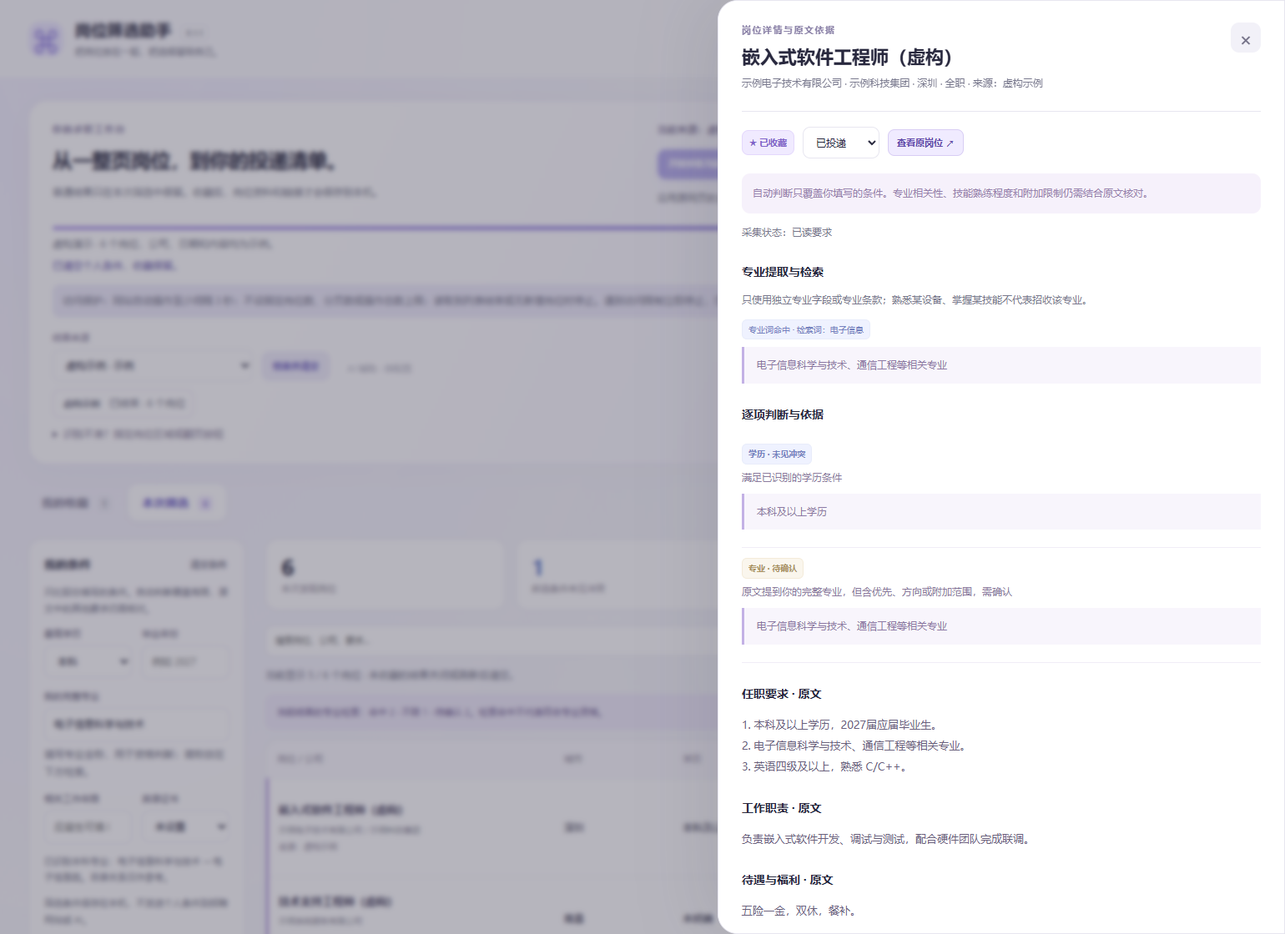
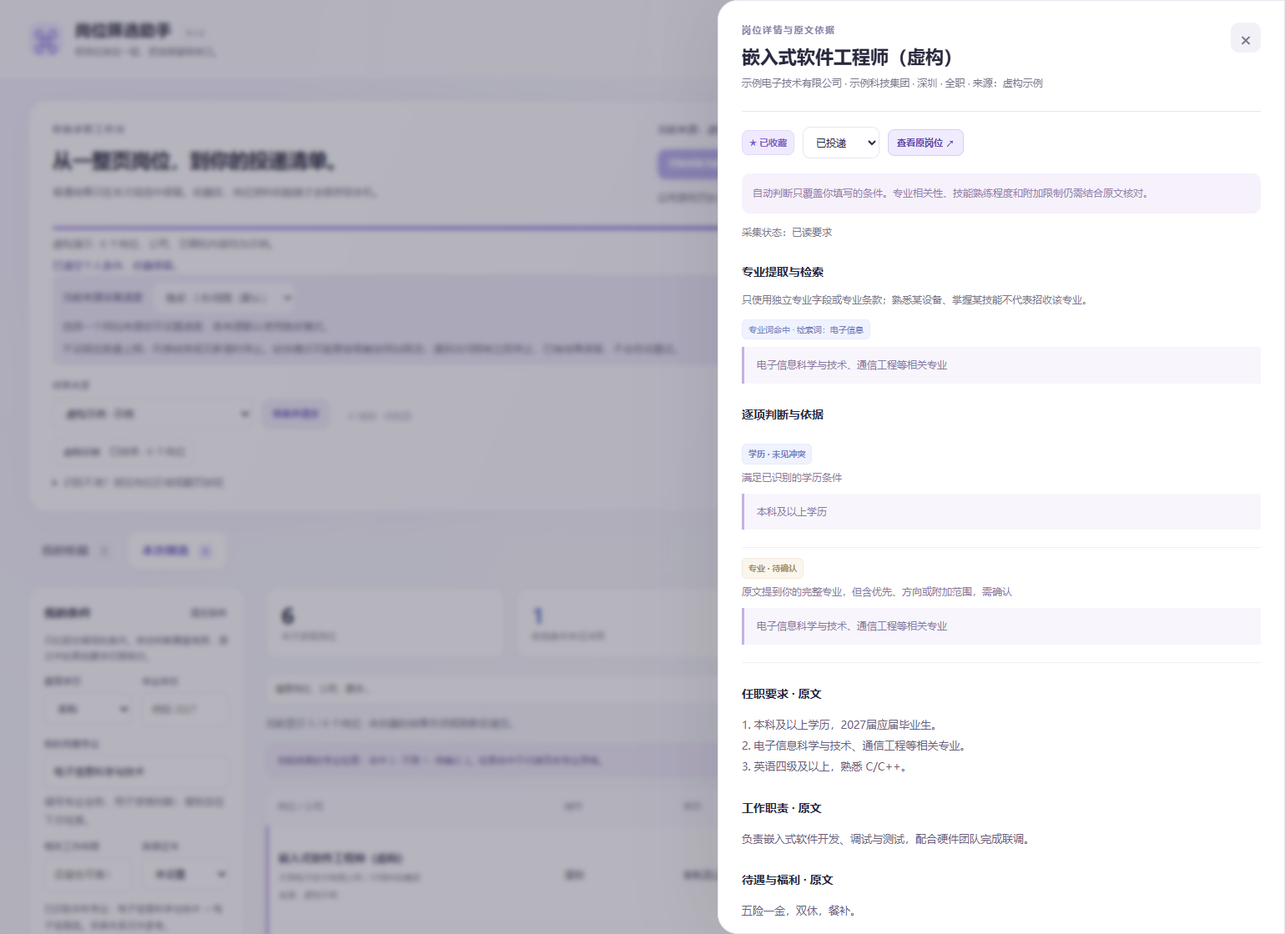
Release v0.1.2: optional faster pacing and efficient widget updates

diff --git a/extension/jobs-widget.js b/extension/jobs-widget.js
@@ -1,7 +1,8 @@
 (function (root) {
   'use strict';
   if (root.JobScreenWidget) return;
-  let binding, current = {}, host, panel, list, message, count, search, degree, hideDegree, start, pause, resume, clear, authorize;
+  let binding, current = {}, host, panel, list, message, count, search, degree, hideDegree, speed, start, pause, resume, clear, authorize;
+  let renderedRows = new Map(), listSignature = '';
   const el = (tag, text, cls) => { const n = document.createElement(tag); if (text !== undefined) n.textContent = text; if (cls) n.className = cls; return n; };
   async function send(action, extra = {}) {
     try {
@@ -13,6 +14,7 @@
   }
   function button(label, action, fn) { const b = el('button', label); b.dataset.action = action; b.type = 'button'; b.onclick = fn || (() => send(action)); return b; }
   function build() {
+    renderedRows = new Map(); listSignature = '';
     host = el('div'); host.id = 'job-screen-widget'; host.style.cssText = 'position:fixed;right:20px;bottom:20px;z-index:2147483646;width:min(370px,calc(100vw - 28px));display:block;';
     const shadow = host.attachShadow({ mode: 'closed' }), style = el('style');
     style.textContent = ':host{all:initial}*{box-sizing:border-box}section{font:13px/1.7 system-ui,"Microsoft YaHei",sans-serif;color:#39334f;background:linear-gradient(145deg,#fff,#f7f4ff);border:1px solid #e3dcf3;border-radius:20px;box-shadow:0 15px 65px #30205226;max-height:calc(100vh - 40px);overflow:auto;padding:18px}header{display:flex;gap:10px;align-items:center}h2{font-size:15px;margin:0;flex:1}small{color:#807393}p{margin:8px 0}button{border:1px solid #e4dcf4;background:#f3effc;border-radius:9px;padding:7px 10px;color:#7053b6;font:inherit;cursor:pointer}button:hover{background:#eae1fc}button:disabled{opacity:.5;cursor:default}.close{border:0;font-size:22px;padding:0 8px;background:transparent}.actions{display:flex;gap:6px;flex-wrap:wrap;margin:12px 0}.primary{background:#7460c7;color:white;border-color:#7460c7}label{display:block;font-size:12px;color:#776a8c}input,select{width:100%;border:1px solid #ded6ed;background:white;border-radius:9px;padding:9px;font:inherit;color:#39334f;margin:4px 0}ol{list-style:none;margin:0;padding:0}li{background:#ffffffbd;border:1px solid #ebe5f5;border-radius:12px;margin:8px 0;padding:10px}.job-name{font-weight:650;text-align:left;background:none;border:0;padding:0;color:#40345b}.job-meta{font-size:11px;color:#8d7c9c}.major{font-size:12px;font-weight:650;color:#6545b4}.row-actions{display:flex;gap:12px;align-items:center;font-size:11px;margin-top:7px}.row-actions button{font-size:11px;padding:3px 8px}a{color:#796298;text-decoration:none}.status{font-size:12px;color:#8c759c;overflow-wrap:anywhere}.count{font-size:12px;color:#76638e;background:#eee8fa;border-radius:9px;padding:8px}.note{font-size:11px;color:#9c8daa}.danger{color:#a36683;background:#fbf1f6}.empty{font-size:12px;color:#9b8ca9;padding:15px 0}.degree-filter{display:flex;align-items:center;gap:6px;margin:7px 0}.degree-filter input{width:auto;margin:0}.conflict-reason{font-size:11px;color:#ad5c74;margin-top:5px}select{margin:4px 0}.original-job-button{display:inline-flex;align-items:center;justify-content:center;border:1px solid #d8cdf4;border-radius:8px;padding:3px 9px;background:#f0ebff;color:#6047aa;font-size:11px;font-weight:650}.original-job-button:hover{background:#e6ddfc}.major.missing{color:#a07124;background:#fff4dc;border:1px solid #f2dfb7;border-radius:7px;padding:4px 7px;margin:6px 0;display:inline-block}[hidden]{display:none!important}';
@@ -26,6 +28,8 @@
     for (const value of ['', '专科', '本科', '硕士', '博士']) { const option = el('option', value || '未设置'); option.value = value; degree.append(option); } education.append(degree);
     const hideLabel = el('label', undefined, 'degree-filter'); hideDegree = el('input'); hideDegree.type = 'checkbox'; hideDegree.setAttribute('aria-label', '隐藏学历明确不符'); hideLabel.append(hideDegree, document.createTextNode('隐藏学历明确不符（未知仍保留）'));
     degree.onchange = hideDegree.onchange = () => send('degree', { degree: degree.value, hideDegreeConflicts: hideDegree.checked }); panel.append(education, hideLabel);
+    const pace = el('label', '采集速度'); speed = el('select'); speed.setAttribute('aria-label', '采集速度');
+    for (const [value, text] of [['steady', '稳妥 · 3 秒间隔（默认）'], ['fast', '较快 · 2 秒间隔']]) { const option = el('option', text); option.value = value; speed.append(option); } pace.append(speed); speed.onchange = () => send('speed', { speed: speed.value }); panel.append(pace, el('p', '采集中先暂停再改速度；同站按较慢设置共用间隔。较快模式可能更易限流，遇到限制仍立即停止。', 'note'));
     const actions = el('div', undefined, 'actions'); start = button('开始检索', 'start'); start.className = 'primary'; pause = button('暂停', 'pause'); resume = button('继续', 'resume');
     clear = button('结束并清空', 'clear'); clear.className = 'danger'; const full = button('打开总筛选台 ↗', 'focus'); authorize = button('授权详情站点 ↗', 'focus'); authorize.hidden = true; actions.append(start, pause, resume, authorize, full, clear); panel.append(actions);
     count = el('p', '尚未开始', 'count'); message = el('p', '当前网站独立检索，专业与其他条件可在总台设置。', 'status'); message.setAttribute('role', 'status'); list = el('ol');
@@ -36,10 +40,14 @@
     if (!panel) return; current = state || {};
     count.textContent = '已发现 ' + (current.total || 0) + ' · 筛选后 ' + (current.count || 0) + ' · 已读详情 ' + (current.read || 0);
     message.textContent = current.message || '尚未开始'; start.disabled = Boolean(current.busy || current.clearing); pause.hidden = !current.busy; resume.hidden = current.busy || !current.resumable; clear.disabled = !current.total && !current.busy;
-    authorize.hidden = !current.needsPermission; degree.value = current.degree || ''; hideDegree.checked = Boolean(current.hideDegreeConflicts);
+    authorize.hidden = !current.needsPermission; degree.value = current.degree || ''; hideDegree.checked = Boolean(current.hideDegreeConflicts); speed.value = current.speed === 'fast' ? 'fast' : 'steady'; speed.disabled = Boolean(current.busy || current.clearing);
     if (document.activeElement !== host && search.value !== (current.query || '')) search.value = current.query || '';
-    list.replaceChildren();
+    const signature = JSON.stringify([current.total || 0, current.count || 0, current.jobs || []]);
+    if (signature === listSignature) return;
+    listSignature = signature; const nextRows = new Map(), children = [];
     for (const job of (current.jobs || [])) {
+      const key = job.key, signature = JSON.stringify(job), old = renderedRows.get(key);
+      if (old?.signature === signature) { nextRows.set(key, old); children.push(old.row); continue; }
       const row = el('li'), title = button(job.name, 'detail', () => send('detail', { key: job.key })); title.className = 'job-name';
       row.append(title, el('div', [job.city, job.company].filter(Boolean).join(' · '), 'job-meta'), el('div', job.majorLabel || '未检测到专业要求', 'major' + (job.majorMissing ? ' missing' : '')));
       row.append(el('div', '学历要求：' + (job.degreeLabel || '未明确') + (job.judgement ? ' · ' + job.judgement : ''), 'job-meta'));
@@ -47,10 +55,11 @@
       if (job.majorPrimary) row.append(el('div', job.majorPrimary, 'job-meta'));
       const actions = el('div', undefined, 'row-actions'); actions.append(button(job.favorite ? '★ 已收藏' : '☆ 收藏', 'favorite', () => send('favorite', { key: job.key })));
       try { const url = new URL(job.url); if (/^https?:$/.test(url.protocol) && !url.username && !url.password) { const link = el('a', job.linkKind === 'detail' ? '查看原岗位 ↗' : '查看来源列表 ↗', 'original-job-button'); link.setAttribute('aria-label', (job.linkKind === 'detail' ? '查看原岗位 ' : '查看来源列表 ') + job.name); link.href = url.href; link.target = '_blank'; link.rel = 'noopener noreferrer'; actions.append(link); } } catch {}
-      row.append(actions); list.append(row);
+      row.append(actions); nextRows.set(key, { signature, row }); children.push(row);
     }
-    if (!current.jobs?.length) list.append(el('li', current.total ? '暂无符合当前组合的结果，可在总台调整条件。' : '点击开始检索，沿用原网站当前的筛选范围。', 'empty'));
-    else list.append(el('li', '已显示当前筛选的全部 ' + current.count + ' 条结果，可在小窗内滚动查看。', 'note'));
+    if (!current.jobs?.length) children.push(el('li', current.total ? '暂无符合当前组合的结果，可在总台调整条件。' : '点击开始检索，沿用原网站当前的筛选范围。', 'empty'));
+    else children.push(el('li', '已显示当前筛选的全部 ' + current.count + ' 条结果，可在小窗内滚动查看。', 'note'));
+    list.replaceChildren(...children); renderedRows = nextRows;
   }
   function show(data) { binding = data; if (!host?.isConnected) build(); host.style.display = 'block'; panel.querySelector('#source').textContent = new URL(data.url).hostname + ' · 仅控制当前网站'; render(current); }
   function hide() { if (host) host.style.display = 'none'; }

diff --git a/extension/help.html b/extension/help.html
@@ -1,5 +1,5 @@
-<!doctype html><html lang="zh-CN"><head><meta charset="utf-8"><meta name="viewport" content="width=device-width,initial-scale=1"><title>岗位筛选助手使用教程</title><style>html{scroll-behavior:smooth}body{margin:0;background:#f7f7fb;color:#333049;font:16px/1.85 system-ui,"Microsoft YaHei",sans-serif}main{max-width:1000px;margin:0 auto;padding:36px 40px 80px;background:white}nav{background:#f3efff;border:1px solid #e0d8f0;border-radius:12px;padding:18px 24px}nav ul{columns:2;margin:0;padding-left:24px}h1{font-size:30px}h2{font-size:23px;margin-top:42px;border-bottom:2px solid #e5dcf3;padding-bottom:8px;scroll-margin-top:20px}h3{font-size:18px;margin-top:28px}a{color:#6554d9}li{margin:8px 0}img{max-width:100%;border:1px solid #e5dff0;border-radius:9px;margin:14px 0}code{background:#f2eef9;padding:2px 5px;border-radius:4px;overflow-wrap:anywhere}pre{background:#f7f3fc;padding:16px;overflow:auto;line-height:1.6}.table{overflow:auto}table{border-collapse:collapse;width:100%;font-size:14px}th,td{padding:10px;border:1px solid #e8e1f0;text-align:left;vertical-align:top}th{background:#f5f1fc}.hint{font-size:13px;color:#7f718c}@media(max-width:650px){main{padding:18px 16px 50px}nav ul{columns:1}h1{font-size:25px}}</style></head><body><main><p class="hint">插件内置离线教程 · 点击图片可放大 · v0.1.1</p><nav aria-label="教程目录"><strong>按使用步骤阅读</strong><ul><li><a href="#1-安装与更新">1. 安装与更新</a></li><li><a href="#2-从当前招聘列表开始">2. 从当前招聘列表开始</a></li><li><a href="#3-收藏就是你的投递清单">3. 收藏就是你的投递清单</a></li><li><a href="#4-表格卡片与关闭操作">4. 表格、卡片与关闭操作</a></li><li><a href="#5-设置条件与理解判断">5. 设置条件与理解判断</a></li><li><a href="#6-采集状态与识别纠正">6. 采集状态与识别纠正</a></li><li><a href="#7-导出与恢复">7. 导出与恢复</a></li><li><a href="#8-本地存储与访问权限">8. 本地存储与访问权限</a></li></ul></nav><h1 id="岗位筛选助手使用说明">岗位筛选助手使用说明</h1>
-<p>独立版 0.1.1。各网站分别启动，总台可切换或合并；表格为默认展示方式，可切换卡片，只自动保存收藏。</p>
+<!doctype html><html lang="zh-CN"><head><meta charset="utf-8"><meta name="viewport" content="width=device-width,initial-scale=1"><title>岗位筛选助手使用教程</title><style>html{scroll-behavior:smooth}body{margin:0;background:#f7f7fb;color:#333049;font:16px/1.85 system-ui,"Microsoft YaHei",sans-serif}main{max-width:1000px;margin:0 auto;padding:36px 40px 80px;background:white}nav{background:#f3efff;border:1px solid #e0d8f0;border-radius:12px;padding:18px 24px}nav ul{columns:2;margin:0;padding-left:24px}h1{font-size:30px}h2{font-size:23px;margin-top:42px;border-bottom:2px solid #e5dcf3;padding-bottom:8px;scroll-margin-top:20px}h3{font-size:18px;margin-top:28px}a{color:#6554d9}li{margin:8px 0}img{max-width:100%;border:1px solid #e5dff0;border-radius:9px;margin:14px 0}code{background:#f2eef9;padding:2px 5px;border-radius:4px;overflow-wrap:anywhere}pre{background:#f7f3fc;padding:16px;overflow:auto;line-height:1.6}.table{overflow:auto}table{border-collapse:collapse;width:100%;font-size:14px}th,td{padding:10px;border:1px solid #e8e1f0;text-align:left;vertical-align:top}th{background:#f5f1fc}.hint{font-size:13px;color:#7f718c}@media(max-width:650px){main{padding:18px 16px 50px}nav ul{columns:1}h1{font-size:25px}}</style></head><body><main><p class="hint">插件内置离线教程 · 点击图片可放大 · v0.1.2</p><nav aria-label="教程目录"><strong>按使用步骤阅读</strong><ul><li><a href="#1-安装与更新">1. 安装与更新</a></li><li><a href="#2-从当前招聘列表开始">2. 从当前招聘列表开始</a></li><li><a href="#3-收藏就是你的投递清单">3. 收藏就是你的投递清单</a></li><li><a href="#4-表格卡片与关闭操作">4. 表格、卡片与关闭操作</a></li><li><a href="#5-设置条件与理解判断">5. 设置条件与理解判断</a></li><li><a href="#6-采集状态与识别纠正">6. 采集状态与识别纠正</a></li><li><a href="#7-导出与恢复">7. 导出与恢复</a></li><li><a href="#8-本地存储与访问权限">8. 本地存储与访问权限</a></li></ul></nav><h1 id="岗位筛选助手使用说明">岗位筛选助手使用说明</h1>
+<p>独立版 0.1.2。各网站分别启动，总台可切换或合并；表格为默认展示方式，可切换卡片，只自动保存收藏。</p>
 <h2 id="1-安装与更新">1. 安装与更新</h2>
 <ol>
 <li>解压安装包到独立的固定文件夹，不覆盖其他插件。</li>
@@ -20,10 +20,11 @@
 <p>若列表和详情位于不同网站，插件保留详情原链接，缺少权限时显示“详情待授权”，不会把它当成没有专业要求。点击小窗“授权详情站点 ↗”进入总台，再点击“授权详情站点并继续”，浏览器允许后从本轮进度接着读取。拒绝授权则保留已有结果，仍可人工打开原页；不会自动申请所有网站权限。</p>
 <p>插件从当前页读取后续分页。如果从中间页开始，会明确提示未覆盖前面的分页。它不会自行扩大到别的招聘类别、网站或子公司入口。</p>
 <p>同时打开多个招聘网站时，在各网站点击插件图标、分别开始。没有启动的网站不会自动采集。总台“结果来源”可以只看一个网站，也可以“合并所有本轮来源”。个人条件和筛选条件在本轮各来源之间共用。</p>
-<p>小窗显示当前来源全部筛选结果，可以在小窗内滚动查看、收藏、点击“查看原岗位”和跳转总台详情，不再限制前5条。同站翻页后，已打开的小窗会恢复；已经收起的小窗保持收起。没有固定采集总数上限；已采集且符合筛选条件的岗位都会显示。</p>
+<p>小窗复用没有变化的岗位行，减少大列表刷新时的重复创建，状态更新仍同步；显示当前来源全部筛选结果，可以在小窗内滚动查看、收藏、点击“查看原岗位”和跳转总台详情，不再限制前5条。同站翻页后，已打开的小窗会恢复；已经收起的小窗保持收起。没有固定采集总数上限；已采集且符合筛选条件的岗位都会显示。</p>
 <p>“暂停”保留本轮内存进度，“继续”接着读取并沿用本轮进度和访问间隔。请保持总筛选台标签页打开，切到其他标签页不影响任务；刷新或关闭总台会停止全部本轮任务，并清空普通结果和暂停进度。</p>
 <p>切到别的标签页浏览其他网站，原任务继续；如果把正在采集的原标签页本身导航到另一网站，在下一次来源检查时停止该任务并保留已有结果，已发出的单次读取可能先完成。此时不会自动扫描新网站，需在新网站重新打开插件并主动开始。原招聘页与总台都需保持打开；浏览器退出或崩溃不能继续。</p>
-<p>自动访问采用保守节奏：同一实际访问站点的翻页、滚动、详情点击或读取之间至少间隔3秒；同站多个标签页及多个来源共用的详情站点共用限速。不再设置固定岗位数、分页数和访问操作总数上限。读取到列表结束、页面重复或没有新增岗位后停止翻页，继续补读已发现岗位详情。大列表分批显示进度，暂停和继续保留已发现岗位；你可以随时结束并清空。取消总量上限不改变访问间隔；岗位多时需要更长时间，浏览器退出或总台关闭后不会继续。</p>
+<p>小窗与总台可以为当前来源选择采集速度：默认“稳妥 · 3 秒间隔”，可选“较快 · 2 秒间隔”。采集中先暂停，修改后点击继续，可保留本轮进度；合并查看时需先选择具体来源才能改速度。速度仅在当前会话保留，新来源默认稳妥。较快模式可能更容易触发网站限流，整体提速取决于网络和页面加载，详情完整性检查和等待超时保持不变。</p>
+<p>同一实际访问站点的翻页、滚动、详情点击或读取共用间隔；同站多个标签页及多个来源共用的详情站点采用其中较慢的设置。开始等待后出现较慢任务，会延长排队间隔；切到较快模式不会缩短上一动作应保留的间隔。不再设置固定岗位数、分页数和访问操作总数上限。读取到列表结束、页面重复或没有新增岗位后停止翻页，继续补读已发现岗位详情。大列表分批显示进度，暂停和继续保留已发现岗位；你可以随时结束并清空。取消总量上限不影响所选访问间隔；岗位多时需要更长时间，浏览器退出或总台关闭后不会继续。</p>
 <h2 id="3-收藏就是你的投递清单">3. 收藏就是你的投递清单</h2>
 <p>点击岗位旁的“☆ 收藏”，保存该岗位的原文、职责、来源链接和采集时间。在右侧详情或卡片中可记录“准备投递”“已投递”“不考虑”等状态。投递状态由你手动填写，插件不会替你提交申请。</p>
 <p>下次打开默认显示“我的收藏”；其他未收藏岗位不自动保存，也不会重新出现。只有你再次回到招聘网站并开始采集，才会产生新的普通结果。</p>

diff --git a/extension/jobs.js b/extension/jobs.js
@@ -204,6 +204,9 @@
     $('end-task').disabled = selectedTask === 'all' ? ![...tasks.items.values()].some(t => t.busy || t.dataset) : !task?.busy && !task?.dataset;
   }
   function renderTasks() {
+    const task = activeTask(), speed = JobScreenAccess.speed(task?.speed);
+    $('collect-speed').value = speed; $('collect-speed').disabled = !task?.tabId || Boolean(task.busy || task.starting || task.clearing);
+    $('speed-note').textContent = !task?.tabId ? '选择一个网站来源后可设置速度，各来源默认使用稳妥模式。' : (speed === 'fast' ? '较快模式：同站自动操作至少间隔 2 秒。' : '稳妥模式：同站自动操作至少间隔 3 秒。') + ' 采集中需暂停后修改；同站多个任务按较慢设置共用间隔。详情完整性检查保持不变。';
     const select = $('task-source'), signature = [...tasks.items.values()].map(t => t.id).join('|');
     if (select.dataset.signature !== signature) {
       select.dataset.signature = signature; const all = node('option', '', '合并所有本轮来源'); all.value = 'all';
@@ -215,6 +218,11 @@
       const row = node('div', 'task-item'), pick = node('button', 'subtle', t.label); pick.onclick = () => selectSource(t.id);
       row.append(pick, node('span', 'hint', (t.busy ? '采集中' : ['blocked','limited'].includes(t.dataset?.stage) ? '保护已停止' : t.dataset?.stage === 'stopped' ? '已停止' : t.dataset?.stage === 'permission' ? '详情待授权' : t.dataset?.stage === 'done' ? '已结束' : t.dataset ? '已暂停' : '尚未开始') + ' · ' + (t.dataset?.jobs.length || 0) + ' 个岗位')); return row;
     }));
+  }
+  function setSpeed(task, value) {
+    if (!task?.tabId) throw Error('请先选择一个网站来源。');
+    if (task.busy || task.starting || task.clearing) throw Error('请先暂停采集，再修改速度。');
+    task.speed = JobScreenAccess.speed(value); render();
   }
   function selectSource(id) { selectedTask = id; mode = 'session'; page = 1; render(); status(activeTask()?.message || '正在合并查看本轮来源；结束并清空将作用于全部本轮任务。'); }
   async function bindSource(binding) {
@@ -236,7 +244,7 @@
   }
   function widgetSnapshot(task) {
     const jobs = tasks.jobs(task), values = J.filter(jobs, profile, filters, marks(jobs)), d = task.dataset;
-    return { busy: Boolean(task.busy || task.starting), clearing: Boolean(task.clearing), resumable: Boolean(d && !['done','blocked','limited','permission','stopped'].includes(d.stage)), needsPermission: d?.stage === 'permission', degree: profile.degree || '', hideDegreeConflicts: Boolean(filters.hideDegreeConflicts), total: jobs.length, count: values.length,
+    return { busy: Boolean(task.busy || task.starting), speed: JobScreenAccess.speed(task.speed), clearing: Boolean(task.clearing), resumable: Boolean(d && !['done','blocked','limited','permission','stopped'].includes(d.stage)), needsPermission: d?.stage === 'permission', degree: profile.degree || '', hideDegreeConflicts: Boolean(filters.hideDegreeConflicts), total: jobs.length, count: values.length,
       read: jobs.filter(j => j.collectionState === 'read').length, message: task.message, query: filters.major || '',
       jobs: values.map(({ job, match }) => { const major = professionalData(job); return { key: job.key, name: job.name, company: job.company, city: job.city, url: job.url, linkKind: job.linkKind, degreeLabel: job.facts.degree.label, judgement: judgementLabel(match), conflictReason: match.conflictReason, majorLabel: major.label, majorMissing: major.missing, majorPrimary: major.primary, favorite: Boolean(favorites[keyFor(job)]) }; }) };
   }
@@ -267,7 +275,7 @@
       if (task.startToken !== token) return;
       if (!resume) { task.source = context; task.ruleKey = origin + new URL(context.url).pathname; task.rule = (await Store.get('jobRules', {}))[task.ruleKey] || {}; }
       if (task.startToken !== token) return;
-      const access = await rpc('access-begin', { resume }, task); task.ticket = access.ticket;
+      const access = await rpc('access-begin', { resume, speed: task.speed }, task); task.ticket = access.ticket;
       if (task.startToken !== token) { await rpc('close-worker', {}, task).catch(() => {}); return; }
       await tasks.run(task, { read: () => rpc('scan', { rule: task.rule, expand: true }, task), next: () => rpc('advance', { rule: task.rule }, task),
         resolveLink: selector => rpc('resolve', { selector }, task), readDetail: (url, signal) => readDetail(url, signal, task),
@@ -292,6 +300,7 @@
     if (action === 'bind' || action === 'snapshot') return widgetSnapshot(task);
     if (action === 'search') { filters.major = binding.query; restore(); controls(); page = 1; render(); }
     if (action === 'degree') { profile.degree = binding.degree; filters.hideDegreeConflicts = binding.hideDegreeConflicts; restore(); controls(); page = 1; render(); const value = {...profile}; profileSave = profileSave.then(() => Store.set('jobProfile', value)).catch(e => status('个人条件保存失败：' + e.message)); }
+    if (action === 'speed') setSpeed(task, binding.speed);
     if (['focus', 'detail', 'start', 'resume'].includes(action)) selectSource(task.id);
     if (action === 'start' || action === 'resume') startTask(task, action === 'resume');
     if (action === 'pause') { tasks.pause(task); rpc('close-worker', {}, task).catch(() => {}); }
@@ -327,6 +336,7 @@
   };
   $('pause').onclick = () => { const t = activeTask(); tasks.pause(t); if (t?.tabId) rpc('close-worker', {}, t).catch(() => {}); };
   $('task-source').onchange = () => selectSource($('task-source').value);
+  $('collect-speed').onchange = () => setSpeed(activeTask(), $('collect-speed').value);
   $('end-task').onclick = async () => {
     const selected = selectedTask === 'all' ? [...tasks.items.values()] : [activeTask()].filter(Boolean);
     await Promise.all(selected.map(clearTask)); status(selectedTask === 'all' ? '全部本轮任务已结束，未收藏结果已清空。' : '当前任务已结束，未收藏结果已清空。');

diff --git a/extension/jobs.html b/extension/jobs.html
@@ -1,13 +1,13 @@
 <!doctype html>
 <html lang="zh-CN"><head><meta charset="utf-8"><meta name="viewport" content="width=device-width,initial-scale=1"><title>岗位筛选助手</title><link rel="stylesheet" href="styles.css"><link rel="stylesheet" href="jobs.css"></head>
 <body class="jobs-app">
-<header><div class="brand-icon" aria-hidden="true">⌘</div><div><h1>岗位筛选助手 <span class="badge">0.1.1</span></h1><p>把岗位放在一起，把选择留给自己。</p></div><a href="help.html" target="_blank" rel="noopener">使用指南 ↗</a><button id="app-close" class="icon-button" aria-label="关闭筛选台" title="关闭筛选台">×</button></header>
+<header><div class="brand-icon" aria-hidden="true">⌘</div><div><h1>岗位筛选助手 <span class="badge">0.1.2</span></h1><p>把岗位放在一起，把选择留给自己。</p></div><a href="help.html" target="_blank" rel="noopener">使用指南 ↗</a><button id="app-close" class="icon-button" aria-label="关闭筛选台" title="关闭筛选台">×</button></header>
 <main>
 <section class="collection-box" aria-label="岗位采集">
 <div class="hero-copy"><span class="eyebrow">你的求职工作台</span><h2>从一整页岗位，到你的投递清单。</h2><p>普通结果只在本次筛选中保留。收藏后，岗位资料和链接才会保存到本机。</p></div>
 <div class="collection-controls"><p id="source-label" class="source-label">先打开招聘列表，再点击浏览器工具栏的插件图标。</p><div class="toolbar"><button id="collect" class="primary">开始采集当前列表</button><button id="resume" class="secondary" hidden>继续本次采集</button><button id="pause" class="secondary" hidden>暂停</button><button id="sample" class="subtle">体验虚构示例</button></div><p class="hint">沿用原网页的公司、城市等条件，从当前页读取后续分页。采集时原页会自动翻页，请在这里操作。</p></div>
 <progress id="progress" value="0" max="1" aria-label="岗位收集进度"></progress><p id="coverage">下次打开只显示收藏；未收藏的岗位不自动保存。</p><p id="status" role="status" aria-live="polite"></p>
-<p class="access-note hint">访问保护：同站自动操作至少间隔 3 秒；不设固定岗位数、分页数或操作总数上限；读取到列表结束或无新增岗位时停止。遇到访问限制立即停止，已有结果保留；不会自动重试。</p>
+<div class="access-note"><label class="speed-control">当前来源采集速度<select id="collect-speed" aria-describedby="speed-note"><option value="steady">稳妥 · 3 秒间隔（默认）</option><option value="fast">较快 · 2 秒间隔</option></select></label><p id="speed-note" class="hint">先选择一个来源设置速度；采集中需暂停后修改。同站多个任务按较慢设置共用间隔。</p><p class="hint">不设固定数量上限；列表结束或无新增时停止。较快模式可能更容易触发网站限流；遇到访问限制立即停止，已有结果保留，不会自动重试。</p></div>
 <div id="detail-permission" class="access-note" hidden><p id="detail-permission-note"></p><button id="authorize-details" class="primary">授权详情站点并继续</button></div>
 <div class="task-controls"><label>结果来源<select id="task-source"><option value="all">合并所有本轮来源</option></select></label><button id="end-task" class="secondary">结束并清空</button><button class="subtle" disabled title="已预留接入接口，尚未配置服务">AI 辅助 · 待配置</button></div><div id="task-list" class="task-list" aria-label="本轮网站任务"></div>
 <details class="recognition"><summary>识别不准？指定岗位区域或翻页按钮</summary><p class="hint">在原网页点选并确认，规则只存在本机。点击“扩大区域”可以选择整个岗位列表；关闭或 Esc 可取消。</p><div class="toolbar"><button class="secondary pick" data-kind="area">指定岗位区域</button><button class="secondary pick" data-kind="title">指定岗位标题</button><button class="secondary pick" data-kind="next">指定下一页</button><button id="clear-rule" class="subtle">清除本页规则</button></div></details>

diff --git a/extension/jobs.css b/extension/jobs.css
@@ -2,7 +2,7 @@
 @media(max-width:1200px){.jobs-app main{padding:22px}.workspace{grid-template-columns:230px minmax(0,1fr);gap:18px}.collection-box{gap:0 20px;padding:22px}.hero-copy h2{font-size:21px}.stats{gap:8px}.stat{padding:13px}}@media(max-width:900px){.collection-box{grid-template-columns:1fr}.collection-controls{margin-top:12px}.workspace{grid-template-columns:1fr}.workspace aside{display:grid;grid-template-columns:1fr 1fr;gap:14px}.workspace aside>details{grid-column:1/-1}.filter-section{margin:0}.jobs-app header{padding:17px 22px}.jobs-app main{padding:18px}.table-wrap{max-width:calc(100vw - 36px)}}@media(max-width:540px){.workspace aside{grid-template-columns:1fr}.jobs-app header{padding:14px}.jobs-app header p{display:none}.jobs-app h1{font-size:16px}.jobs-app header>a{font-size:11px}.hero-copy h2{font-size:20px}.collection-box{padding:20px;border-radius:17px}.stats{grid-template-columns:repeat(2,1fr)}.workspace-nav{gap:6px}.tab{padding:8px;font-size:12px}.view-switch button{padding:5px 9px}.job-heading{flex-wrap:wrap}.result-tools input{width:100%}}
 .collection-box progress{-webkit-appearance:none;appearance:none;overflow:hidden}.collection-box progress::-webkit-progress-bar{background:#ebe7f6;border-radius:4px}.collection-box progress::-webkit-progress-value{background:linear-gradient(90deg,#b8a5ec,#8174d5);border-radius:4px}.collection-box progress::-moz-progress-bar{background:#9380dc;border-radius:4px}
 .professional-evidence{display:flex;flex-direction:column;gap:6px;align-items:flex-start}.professional-evidence .cell-major{color:#797089}.job-card .professional-evidence{margin-top:13px;padding:11px 13px;background:#faf8ff;border-radius:10px}.major-summary{font-size:11px;line-height:1.8;color:#766599;background:#f0ecfa;border:1px solid #e9e1f5;border-radius:10px;padding:10px 13px}.major-summary[hidden]{display:none}
-.access-note{grid-column:1/-1;line-height:1.8;padding:9px 12px;background:#eeecfa;border-radius:9px}
+.access-note{grid-column:1/-1;line-height:1.8;padding:9px 12px;background:#eeecfa;border-radius:9px}.speed-control{display:flex;align-items:center;gap:12px;flex-wrap:wrap;font-size:12px;color:#6d628c}.speed-control select{width:auto;max-width:100%;margin:0}.access-note .hint{margin:5px 0 0}
 .task-controls{grid-column:1/-1;display:flex;gap:10px;align-items:end;flex-wrap:wrap;margin-top:15px}.task-controls label{display:flex;flex-direction:column;gap:5px;font-size:11px;color:#8b7b9b}.task-controls select{font-size:12px;min-width:240px;max-width:100%}.task-controls button{font-size:11px}.task-list{grid-column:1/-1;display:flex;gap:8px;flex-wrap:wrap}.task-item{display:flex;gap:8px;align-items:center;border:1px solid #e8e0f4;border-radius:9px;margin-top:10px;padding:4px 9px;background:#ffffffb3}.task-item button{font-size:11px;padding:3px}.task-item .hint{margin:0!important}.major-primary{font-size:11px;line-height:1.7;color:#62439f;overflow-wrap:anywhere}.major-primary mark{background:#e5d8ff;color:#482983;border-radius:3px;padding:1px 2px}.major-matched .pill{background:#eee6ff;border-color:#ded1f8;color:#614191;font-weight:650}.preferred-row td:first-child{border-left:3px solid #b39adf}.job-card .major-primary{font-size:13px}
 
 .conflict-reason{display:block;font-size:11px;line-height:1.7;color:#ad5c74;margin-top:6px;overflow-wrap:anywhere}#detail-permission p{margin:0 0 8px;font-size:12px}#detail-permission[hidden]{display:none}

diff --git a/extension/jobs-access.js b/extension/jobs-access.js
@@ -1,6 +1,8 @@
 (function (root) {
   'use strict';
   const policy = Object.freeze({ intervalMs: 3000, maxActions: Infinity, maxJobs: Infinity, maxPages: Infinity, cooldownMs: 600000 });
+  const speeds = Object.freeze({ steady: policy.intervalMs, fast: 2000 });
+  const speed = value => Object.hasOwn(speeds, value) ? value : 'steady';
   function record(kind, reason, status = 0, until = 0) { return { kind, reason, status, until }; }
   function error(stop) {
     const e = Error('[JOB_ACCESS:' + stop.kind + ':' + (stop.status || 0) + ':' + (stop.until || 0) + '] ' + stop.reason);
@@ -33,17 +35,23 @@
     return null;
   }
   class Governor {
-    constructor({ intervalMs = policy.intervalMs, maxActions = policy.maxActions, now = Date.now, wait = ms => new Promise(r => setTimeout(r, ms)) } = {}) { this.intervalMs = intervalMs; this.maxActions = maxActions; this.now = now; this.wait = wait; this.pools = new Map(); }
+    constructor({ intervalMs = policy.intervalMs, intervalFor, maxActions = policy.maxActions, now = Date.now, wait = ms => new Promise(r => setTimeout(r, ms)) } = {}) { this.intervalMs = intervalMs; this.intervalFor = intervalFor || (() => this.intervalMs); this.maxActions = maxActions; this.now = now; this.wait = wait; this.pools = new Map(); }
     async permit(run, origin = run.origin) {
-      const pool = this.pools.get(origin) || { next: 0, queue: Promise.resolve() }; this.pools.set(origin, pool);
+      const pool = this.pools.get(origin) || { last: null, intervalMs: 0, queue: Promise.resolve() }; this.pools.set(origin, pool);
       const perform = async () => {
         const check = () => { if (run.stop) throw error(run.stop); if (!run.active) throw error(record('cancelled', '本轮自动读取已结束。')); if (run.count >= this.maxActions) throw error(record('limit', '达到本轮 ' + this.maxActions + ' 次自动访问操作上限，已停止；已有结果保留。')); };
-        check(); const remaining = Math.max(0, pool.next - this.now()); if (remaining) await this.wait(remaining); check();
-        run.count++; pool.next = this.now() + this.intervalMs;
+        check(); let interval;
+        while (true) {
+          interval = this.intervalFor(run, origin);
+          const remaining = pool.last === null ? 0 : Math.max(0, pool.last + Math.max(pool.intervalMs, interval) - this.now());
+          if (!remaining) break;
+          await this.wait(remaining); check();
+        }
+        run.count++; pool.last = this.now(); pool.intervalMs = interval;
       };
       const result = pool.queue.catch(() => {}).then(perform); pool.queue = result.catch(() => {}); return result;
     }
   }
-  const api = { policy, record, error, read, response, detectDocument, Governor };
+  const api = { policy, speeds, speed, record, error, read, response, detectDocument, Governor };
   root.JobScreenAccess = api; if (typeof module !== 'undefined') module.exports = api;
 })(globalThis);

diff --git a/extension/jobs-access-background.js b/extension/jobs-access-background.js
@@ -1,7 +1,8 @@
 'use strict';
 // Counts controlled operations only. Never records response bodies or browsing history.
 globalThis.JobScreenAccessBackground = (() => {
-  const A = JobScreenAccess, governor = new A.Governor(), runs = new Map(), budgets = new Map(), tabs = new Map(), recent = new Map(), blocks = new Map(), writes = new Map();
+  const A = JobScreenAccess, runs = new Map(), budgets = new Map(), tabs = new Map(), recent = new Map(), blocks = new Map(), writes = new Map();
+  const governor = new A.Governor({ intervalFor: (run, origin) => Math.max(run.intervalMs, ...[...runs.values()].filter(r => r.active && !r.stop && r.origins.has(origin)).map(r => r.intervalMs)) });
   const key = (owner, source) => owner + ':' + source;
   const blockKey = origin => 'jobAccessBlock:' + origin;
   async function block(origin, stop) {
@@ -23,13 +24,13 @@ globalThis.JobScreenAccessBackground = (() => {
     if (value?.until > Date.now()) return value;
     blocks.delete(origin); if (saved) await chrome.storage.session.remove(k); return null;
   }
-  async function begin(owner, source, origin, resume = false) {
+  async function begin(owner, source, origin, resume = false, speed = 'steady') {
     const saved = await blocked(origin); if (saved) throw A.error(saved);
     finish(owner, source);
     const k = key(owner, source);
     if (resume && !budgets.has(k)) throw A.error(A.record('cancelled', '本轮访问连接已结束，请手动重新开始。'));
-    const run = { owner, source, origin, origins: new Set([origin]), ticket: crypto.randomUUID(), active: true, count: resume ? budgets.get(k) : 0 }; budgets.set(k, run.count);
-    runs.set(key(owner, source), run); tabs.set(source, run); return { ticket: run.ticket, policy: A.policy };
+    const run = { owner, source, origin, origins: new Set([origin]), ticket: crypto.randomUUID(), active: true, speed: A.speed(speed), intervalMs: A.speeds[A.speed(speed)], count: resume ? budgets.get(k) : 0 }; budgets.set(k, run.count);
+    runs.set(key(owner, source), run); tabs.set(source, run); return { ticket: run.ticket, policy: A.policy, speed: run.speed };
   }
   function finish(owner, source) {
     for (const [k, run] of runs) if (run.owner === owner && (!source || run.source === source)) { run.active = false; budgets.set(k, run.count); runs.delete(k); for (const [id, mapped] of tabs) if (mapped === run) tabs.delete(id); }

diff --git a/extension/jobs-channel.js b/extension/jobs-channel.js
@@ -108,7 +108,8 @@ globalThis.JobScreenChannel = (() => {
       }
       const tabId = Number(message.tabId), binding = (await chrome.storage.session.get('jobBinding:' + tabId))['jobBinding:' + tabId];
       if (sender.id !== chrome.runtime.id || sender.tab?.id !== tabId || !binding || binding.nonce !== message.nonce || new URL(sender.url).origin !== binding.origin) throw Error('小窗与当前网站未绑定');
-      if (!['snapshot', 'start', 'resume', 'pause', 'clear', 'focus', 'detail', 'favorite', 'search', 'degree', 'hide'].includes(message.action)) throw Error('小窗操作无效');
+      if (!['snapshot', 'start', 'resume', 'pause', 'clear', 'focus', 'detail', 'favorite', 'search', 'degree', 'speed', 'hide'].includes(message.action)) throw Error('小窗操作无效');
+      if (message.action === 'speed' && !Object.hasOwn(JobScreenAccess.speeds, message.speed)) throw Error('采集速度无效');
       if (message.action === 'degree' && !['','专科','本科','硕士','博士'].includes(message.degree)) throw Error('学历设置无效');
       if (message.action === 'hide') { await chrome.storage.session.set({ ['jobWidget:' + tabId]: false }); return true; }
       const metadata = { tabId, nonce: binding.nonce, url: sender.tab.url, title: sender.tab.title || '' };
@@ -117,7 +118,7 @@ globalThis.JobScreenChannel = (() => {
         await chrome.tabs.update(page.id, { active: true }); throw Error('请在总台点击开始采集，允许读取当前网站后再使用小窗');
       }
       if (['focus', 'detail'].includes(message.action)) await chrome.tabs.update(page.id, { active: true });
-      return request(page.id, message.action, { ...metadata, key: String(message.key || '').slice(0, 3000), query: String(message.query || '').slice(0, 300), degree: message.degree || '', hideDegreeConflicts: Boolean(message.hideDegreeConflicts) });
+      return request(page.id, message.action, { ...metadata, key: String(message.key || '').slice(0, 3000), query: String(message.query || '').slice(0, 300), degree: message.degree || '', hideDegreeConflicts: Boolean(message.hideDegreeConflicts), speed: JobScreenAccess.speed(message.speed) });
     })().then(result => respond({ ok: true, result })).catch(error => respond({ ok: false, error: error.message })); return true;
   });
   chrome.tabs.onUpdated.addListener((tabId, change, tab) => {

diff --git a/extension/background.js b/extension/background.js
@@ -64,7 +64,7 @@ chrome.runtime.onMessage.addListener((message, sender, respond) => {
     if (!/^https?:\/\//.test(tab.url || '') || new URL(tab.url).origin !== binding.origin) throw JobScreenAccess.error(JobScreenAccess.record('cancelled', '原标签页已切换网站，任务已停止；请在新页面重新打开插件'));
     accessOrigin = binding.origin;
     if (message.action === 'context') return { url: tab.url, title: tab.title };
-    if (message.action === 'access-begin') return JobScreenAccessBackground.begin(ownerId, tabId, binding.origin, Boolean(message.resume));
+    if (message.action === 'access-begin') return JobScreenAccessBackground.begin(ownerId, tabId, binding.origin, Boolean(message.resume), message.speed);
     if (message.action === 'access-permit') { accessOrigin = await JobScreenAccessBackground.target(binding.origin, message.url); return JobScreenAccessBackground.permit(ownerId, tabId, message.ticket, message.url); }
     if (message.action === 'access-report') { accessOrigin = await JobScreenAccessBackground.target(binding.origin, message.url); if (!['rate', 'refused', 'captcha'].includes(message.stop?.kind)) throw Error('访问限制类型无效'); throw JobScreenAccess.error(message.stop); }
     if (message.action === 'load') accessOrigin = await JobScreenAccessBackground.target(binding.origin, message.url);

diff --git a/extension/jobs-tasks.js b/extension/jobs-tasks.js
@@ -11,7 +11,7 @@
       const url = J.safeURL(binding.url), label = url ? new URL(url).hostname : '虚构示例';
       if (!url && id !== 'sample') throw Error('来源网址无效');
       const task = { ...binding, id, source: { url, title: J.text(binding.title) }, label, dataset: null, busy: false, generation: 0, controller: null, promise: null, message: '尚未开始', rule: {}, ruleKey: url ? new URL(url).origin + new URL(url).pathname : '' };
-      this.items.set(id, task); this.change(task); return task;
+      task.speed = 'steady'; this.items.set(id, task); this.change(task); return task;
     }
     async run(task, options, resume = false) {
       if (task.busy || task.clearing) return;

diff --git a/验证记录.md b/验证记录.md
@@ -1,20 +1,28 @@
 # 验证记录
 
-版本 0.1.1，2026-10-10（Asia/Shanghai）。浏览器验证只使用隔离配置和虚构岗位，不读取真实求职资料、账户或提交申请。专业目录另从教育部公开文件核对。
+版本 0.1.2，2026-10-10（Asia/Shanghai）。浏览器验证只使用隔离配置和虚构岗位，不读取真实求职资料、账户或提交申请。专业目录另从教育部公开文件核对。
+
+## 本次提速更新验证
+
+- 新增三项逻辑检查：速度默认和有效范围、快慢切换兼顾前后动作间隔、排队等待时新增较慢任务延长间隔。
+- 用生产2000毫秒参数实测较快模式的详情请求间隔；采集中速度控件禁用。混合较快与稳妥任务共用实际访问站点，服务器收到的详情访问保持至少约3秒间隔（断言容许200毫秒观测误差）。默认3秒共享队列原有检查继续通过。
+- 实际点击暂停、改为较快、继续；保留三条岗位和已完成详情，不重复读取首条详情。较快模式触发429后停止、保留Retry-After和冷却，未继续访问后续岗位。
+- 小窗速度与总台同步，新来源仍默认稳妥。实际扩展消息更新只修改速度时，岗位DOM行身份不变；收藏、详情补全、排序、清空与全部700条结果检查继续通过。
+- 本次没有降低详情加载等待或完整性标准，没有增加并行详情工作页。没有对真实招聘网站测量总耗时或宣称统一提速比例；2秒不是所有站点均允许的访问频率。
 
 ## 已执行检查
 
-- 59 项规则与采集逻辑检查：学历、届别、专业、经验、英语、截止日期、组合过滤、CSV 安全、通用分页、未知覆盖、重复页、暂停续读、详情补全、失败与缺失、标题链接解析；覆盖专业简称、跨专业任意词、技能负例、严格检索、全称边界、排除与不限、例外、目录范围、独立专业字段、宽泛门类、匹配排序与名称片段、详情标题保留、来源合并与清空、晚到结果，以及 AI 接口默认关闭、范围与证据校验。访问保护覆盖同源队列、取消等待、显式配置操作预算、手动暂停、翻页中暂停后续读、Retry-After、预算延续、并发拒绝不缩短冷却、拒绝后停止、显式配置岗位和分页上限、默认无固定总量上限。包含并列门类范围、冲突来源解释与学历过滤、缺少详情权限后续读、多个来源共用实际详情站点间隔；权限预检还检查未授权与危险协议拒绝。来源取消结束后续详情循环、保留已读和待读结果且不标完成；截止时间检查增加无效分钟和秒的负例。
+- 62 项规则与采集逻辑检查：学历、届别、专业、经验、英语、截止日期、组合过滤、CSV 安全、通用分页、未知覆盖、重复页、暂停续读、详情补全、失败与缺失、标题链接解析；覆盖专业简称、跨专业任意词、技能负例、严格检索、全称边界、排除与不限、例外、目录范围、独立专业字段、宽泛门类、匹配排序与名称片段、详情标题保留、来源合并与清空、晚到结果，以及 AI 接口默认关闭、范围与证据校验。访问保护覆盖同源队列、取消等待、显式配置操作预算、手动暂停、翻页中暂停后续读、Retry-After、预算延续、并发拒绝不缩短冷却、拒绝后停止、显式配置岗位和分页上限、默认无固定总量上限。包含并列门类范围、冲突来源解释与学历过滤、缺少详情权限后续读、多个来源共用实际详情站点间隔；权限预检还检查未授权与危险协议拒绝。来源取消结束后续详情循环、保留已读和待读结果且不标完成；截止时间检查增加无效分钟和秒的负例。
 - 19 项生产扩展界面检查：收藏默认页、表格与卡片、条件过滤、右侧详情、关闭与 Esc、收藏快照和状态、普通结果刷新清空、收藏备份、取消收藏、旧数据迁移、导入、专业检索分组与严格模式、专业字段收藏、窄屏、绑定校验、与原插件存储隔离、页面关闭。新增延迟保存期间快速编辑并清空个人条件的回归，确认刷新后仍为空。专业技能负例在表格、卡片均明确显示“未检测到专业要求”，详情说明不等于专业不限。
 - 10 项通用采集浏览器检查：任意列表绑定、内存暂停、搜索表单翻页保留原条件、静态与动态详情、缺失要求、收藏原文链接、刷新清空普通结果、原地展开与标题弹出链接、点选规则及关闭、未授权跨站拒绝和中途关闭工作标签页。
 
 - 12 项识别问题回归：重复卡片与多层标题、筛选栏排除、单岗位发现、120 个虚构岗位持续滚动去重、详情链接与静态要求解析、专业关键词显示、表格/定义列表/标题专业字段、结构化技能区分、非标准栏目中的专业条款与推荐文本排除。新增结构化多岗位列表保留分页、无链接岗位身份去重、结构化数组资格与可见摘要合并检查。相关断言归并为12组场景。增加顶部摘要、表格、定义列表、独立学历栏目、页外岗位标题摘要、职责/推荐/隐藏条件排除，以及学历矛盾原文保留。
-- 13 项多站浏览器检查：当前站小窗与单一总台、第二站等待主动启动、两个独立详情工作页、收起后完成与名称保留、匹配专业置顶、收藏与单站清空、共用检索条件和专业门类证据、同站导航恢复、隐藏状态保持、总台刷新清空且收藏保留、中途结束拒绝晚到结果，以及关闭总台回收工作页并保留招聘页。本版验证切到另一个标签页时任务继续，采集中把原标签页导航到其他来源后停止后续读取并回收工作页。新增同一标签页采集中快速切换网站、立即启动新任务，再清空旧任务时新读取继续完成的回归。相关断言归并为13组场景。
-- 11 项访问保护浏览器检查：用生产3秒间隔实际观察两个同源任务的详情访问时间；非采集标签页的403不停止任务；静态403、静态429、HTML验证页、动态主文档403、动态接口429、来源翻页接口403分别停止该站并回收工作页、保留结果，拒绝后不再读取后续岗位、不动态回退；冷却期间手动点击也不发起请求，429的1800秒 Retry-After 被保留。实际总台消息传到小窗后，7条结果全部渲染且可滚动；隐藏验证模板与岗位正文不误判，明确验证控件触发停止；会话存储只有冷却等元数据，没有普通岗位内容。相关断言归并为11组场景。
+- 15 项多站浏览器检查：当前站小窗与单一总台、第二站等待主动启动、两个独立详情工作页、收起后完成与名称保留、匹配专业置顶、收藏与单站清空、共用检索条件和专业门类证据、同站导航恢复、隐藏状态保持、总台刷新清空且收藏保留、中途结束拒绝晚到结果，以及关闭总台回收工作页并保留招聘页。本版验证切到另一个标签页时任务继续，采集中把原标签页导航到其他来源后停止后续读取并回收工作页。新增同一标签页采集中快速切换网站、立即启动新任务，再清空旧任务时新读取继续完成的回归。相关断言归并为13组场景。
+- 14 项访问保护浏览器检查：用生产3秒间隔实际观察两个同源任务的详情访问时间；非采集标签页的403不停止任务；静态403、静态429、HTML验证页、动态主文档403、动态接口429、来源翻页接口403分别停止该站并回收工作页、保留结果，拒绝后不再读取后续岗位、不动态回退；冷却期间手动点击也不发起请求，429的1800秒 Retry-After 被保留。实际总台消息传到小窗后，7条结果全部渲染且可滚动；隐藏验证模板与岗位正文不误判，明确验证控件触发停止；会话存储只有冷却等元数据，没有普通岗位内容。相关断言归并为11组场景。
 
 - 7 项详情和学历浏览器检查：不同卡片结构中的跨站岗位链接保留、公司标题和公司链接去重；多种括号栏目、混写专业与技能、结构化职位描述；已授权跨站静态与动态详情，以及先显示只有学历的结构化摘要后加载正文；表格、卡片和小窗显示具体学历冲突，学历设置和隐藏学历冲突同步；缺少权限时不发起详情请求、显式入口续读保留岗位并清除旧提示；跨站详情429停止来源、后续岗位不再访问、保留Retry-After、回收工作页且无岗位内容持久化。本版静态和动态详情均将学历放在 main 外的岗位顶部摘要，任职资格只包含专业条款，仍完成表格、卡片、小窗学历核对。本版实际点击总台与小窗的“查看原岗位”，确认新标签页 URL 对应原详情且原列表不被替换。
 
-合计135项检查通过（59+19+10+12+13+11+7+4）。新增700岗位/35页完整逻辑续读、450次操作默认不停止、无新增及空分页补读详情、大页分批发布时暂停不丢岗位、页末暂停后继续分页、博士研究生完整词组、列表学历来源保留。
+合计143项检查通过（62+19+10+12+15+14+7+4）。新增700岗位/35页完整逻辑续读、450次操作默认不停止、无新增及空分页补读详情、大页分批发布时暂停不丢岗位、页末暂停后继续分页、博士研究生完整词组、列表学历来源保留。
 
 - 4项大列表真实扩展检查：实际原网页自动翻到第35页，保留700岗位；最后一项仍可检索且表格保留顶部学历；小窗完整接收700项筛选结果；结束清空后普通岗位不持久保存。此测试使用100毫秒间隔，本地35页翻页不证明真实网站都可自动翻页。离线教程8个章节、2张虚构截图解码通过；匹配专业高亮、桌面与窄屏布局检查通过，另目视检查网站小窗和总台原岗位按钮截图。执行命令为 package.json 中的 test、test:extension、test:collection、test:recognition、test:multisite、test:access、test:details、test:boundaries。
 
@@ -22,7 +30,7 @@
 
 浏览器采集检查在临时扩展副本中只预授权本机测试站点，模拟实际搜索表单翻页、内联展开、动态详情、结构化岗位数据和缺失要求。生产权限提示仍由使用者在真实浏览器中确认。
 
-通用采集、识别、多站及详情回归的临时副本使用100毫秒间隔缩短运行时间，不用于证明生产限速。访问保护浏览器检查使用原始3000毫秒参数并比较本机服务器实际收到请求的时间；两个同源任务共享间隔，其他来源仍可独立采集。保护模块只对插件控制的点击、翻页、滚动和详情访问计数，不控制网站自行加载的脚本、图片等全部网络请求。
+通用采集、识别、多站及详情回归的临时副本使用100毫秒间隔缩短运行时间，不用于证明生产限速。访问保护浏览器检查使用生产3000毫秒与可选2000毫秒参数，并比较本机服务器实际收到请求的时间；两个同源任务共享间隔，其他来源仍可独立采集。保护模块只对插件控制的点击、翻页、滚动和详情访问计数，不控制网站自行加载的脚本、图片等全部网络请求。
 
 跨站测试在隔离扩展副本中预授权两个不同主机名的本机站点。缺少权限场景临时令预检返回未授权，确认未发请求后恢复预授权，点击实际授权按钮继续；验证的是暂停、按钮和续读路径，不宣称测试了操作系统或浏览器首次弹出的权限确认窗。真实新增站点权限仍由使用者确认。
 
@@ -42,6 +50,8 @@
 
 安装包白名单共26项，仅允许扩展代码、离线专业目录、图标、离线教程及虚构截图。打包脚本核对资源白名单、版本、ZIP完整性和SHA-256；外部网址仅额外允许精确的官方目录来源链接，仍禁止硬编码招聘域名和公司适配。公开版本只上传通用源码、说明及虚构测试材料，不上传用户收藏。
 
-本版ZIP大小及SHA-256见下方发布核对。原解压安装目录就地同步26项资源，逐文件SHA-256与源码一致，manifest版本为0.1.1；未修改浏览器中的收藏数据。
+本版ZIP大小及SHA-256见下方发布核对。原解压安装目录就地同步26项资源，逐文件SHA-256与源码一致，manifest版本为0.1.2；未修改浏览器中的收藏数据。
 
-发布核对：v0.1.1 ZIP 为751805字节，SHA-256：48bcd5529ceb27ec4adbc4c9f253b0b0a941acbac8c830d89dd292bf9c8a2068。原安装目录26项资源与源码逐文件哈希一致。
+上版发布核对：v0.1.1 ZIP 为751805字节，SHA-256：48bcd5529ceb27ec4adbc4c9f253b0b0a941acbac8c830d89dd292bf9c8a2068。原安装目录26项资源与源码逐文件哈希一致。
+
+本版发布核对：v0.1.2 ZIP 为742611字节，SHA-256：71a2ef07c5e6361c03a985c68a3e29ce806e0837fcf6db3ce413bc2acbfbe96a。原安装目录26项资源与源码逐文件哈希一致；未修改浏览器收藏。

diff --git a/README.md b/README.md
@@ -1,10 +1,10 @@
 # 岗位筛选助手
 
-独立的 Chrome / Edge 浏览器插件，版本 0.1.1。通用网页识别，不内置具体公司名称、招聘域名、招聘接口或专用采集入口。
+独立的 Chrome / Edge 浏览器插件，版本 0.1.2。通用网页识别，不内置具体公司名称、招聘域名、招聘接口或专用采集入口。
 
 ## 使用
 
-下载 [v0.1.1 安装包](https://github.com/keyingdm/job-screen-assistant/releases/tag/v0.1.1)，解压后加载扩展。首次公开版本为 0.1.0；此前本地试制版本的收藏仍使用原扩展身份读取。
+下载 [v0.1.2 安装包](https://github.com/keyingdm/job-screen-assistant/releases/tag/v0.1.2)，解压后加载扩展。首次公开版本为 0.1.0；此前本地试制版本的收藏仍使用原扩展身份读取。
 
 1. 解压安装包，在扩展管理页启用开发者模式，加载包含 manifest.json 的文件夹。源码安装选择 extension 文件夹。
 2. 打开招聘列表，先选好原网站的公司、城市和招聘类别，再点击工具栏插件图标。
@@ -12,7 +12,7 @@
 4. 小窗可设置“我的学历”、隐藏学历明确不符的岗位，并滚动查看全部筛选结果、岗位学历、具体冲突原因。“查看原岗位”与收藏并列显示，点击在新标签页打开岗位；“打开总筛选台”可设置完整条件，在表格或卡片中切换来源或合并查看，点击岗位查看右侧原文。
 5. 小窗“×”只收起，任务继续。“结束并清空”停止该任务并清除未收藏结果；总台选择合并来源时，该按钮作用于全部本轮任务。
 
-下次打开只显示收藏。请保持总筛选台标签页打开，切换到其他标签页即可；普通结果和任务进度只留在总台内存，刷新或关闭总台会清空全部本轮结果并停止采集。暂停后可在本轮继续。个人条件和显示方式可保留。
+下次打开只显示收藏。请保持总筛选台标签页打开，切换到其他标签页即可；普通结果和任务进度只留在总台内存，刷新或关闭总台会清空全部本轮结果并停止采集。暂停后可在本轮继续。小窗与总台均可选择当前来源的采集速度：默认稳妥3秒、可选较快2秒；采集中需先暂停再修改，同站任务采用较慢设置，速度只在本轮保留。个人条件和显示方式可保留。
 
 浏览另一个标签页时继续采集；把正在采集的原标签页导航到别的网站时，在下一次来源检查停止原任务，已经发出的单次读取可能先完成。原页、总台都需保持打开。
 
@@ -34,7 +34,7 @@
 
 识别失败时可以点选岗位区域、标题和下一页按钮，并把选择规则保存在本机。支持能力取决于页面结构；不宣称任意网站都能全自动采集。未授权详情、跨站重定向、iframe、验证码和特殊交互可能需要手动处理。页面报告总量缺失时，覆盖情况显示未知。
 
-自动翻页、滚动、详情点击与读取按实际访问站点共用至少3秒间隔；多个来源指向同一详情站点时也共用该站间隔。不设固定岗位数、分页数或操作总数上限，直到列表结束、页面重复或没有新增岗位。翻页无新增时停止发现，仍补读已发现岗位详情。大列表分批发布进度，暂停时保留未展示的已发现岗位。保护停止不自动续读，也不会声称覆盖全量。
+自动翻页、滚动、详情点击与读取按实际访问站点默认共用至少3秒间隔（可选较快模式为2秒）；多个来源指向同一详情站点时也共用该站间隔。不设固定岗位数、分页数或操作总数上限，直到列表结束、页面重复或没有新增岗位。翻页无新增时停止发现，仍补读已发现岗位详情。大列表分批发布进度，暂停时保留未展示的已发现岗位。保护停止不自动续读，也不会声称覆盖全量。
 
 静态响应、采集来源及动态工作页可观察到的已授权详情文档/同源接口返回403或429时停止相关来源任务，不继续尝试其他岗位或动态回退。明确验证码或访问限制页面也停止。冷却期至少10分钟，并遵守更长的 Retry-After；冷却结束也不自动重试。webRequest 权限只用于状态观察，不修改请求、认证或响应，不上传监测数据。
 
